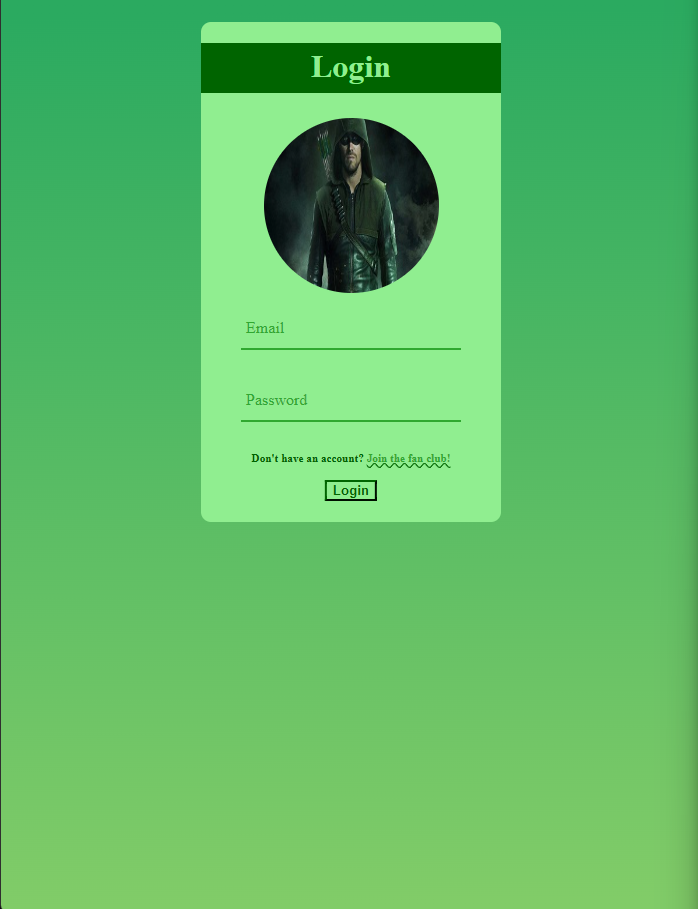
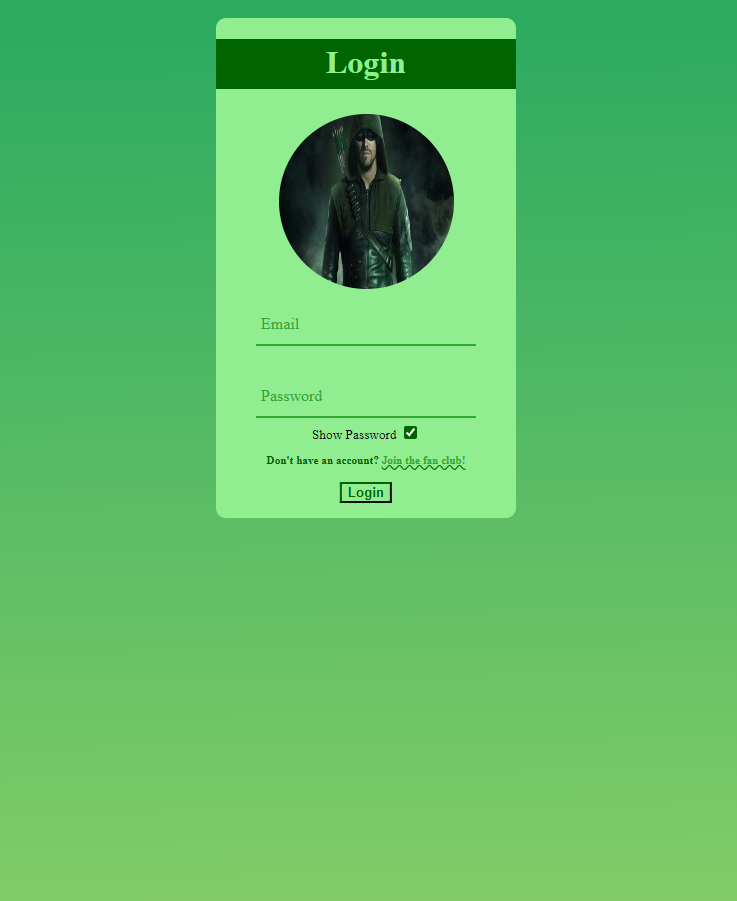
Implemented a show password option for login screen

diff --git a/Account_Manager/Public/CSS/login.css b/Account_Manager/Public/CSS/login.css
@@ -37,22 +37,6 @@ form {
     box-sizing: border-box;
 }
 
-p {
-    font-weight: bold;
-    font-size: .7em;
-    text-align: center;
-    color: darkgreen;
-}
-
-a {
-    color: rgb(48, 168, 48);
-    text-decoration: darkgreen wavy underline;
-}
-
-a:hover {
-    color: darkgreen;
-}
-
 /* form fields */
 .text_field input {
     width: 100%;
@@ -84,6 +68,37 @@ input:-webkit-autofill {
     -webkit-text-fill-color: darkgreen !important;
     -webkit-box-shadow: 0 0 0 30px lightgreen inset !important;
             box-shadow: 0 0 0 30px lightgreen inset !important;
+}
+
+/* form; after input fields */
+p {
+    font-weight: bold;
+    font-size: .7em;
+    text-align: center;
+    color: darkgreen;
+}
+
+a {
+    color: rgb(48, 168, 48);
+    text-decoration: darkgreen wavy underline;
+}
+
+a:hover {
+    color: darkgreen;
+}
+
+#after_inputs {
+    position: relative;
+    top: -25px;
+}
+
+#password_show {
+    text-align: center;
+    font-size: smaller;
+}
+
+[type="checkbox"] {
+    accent-color: darkgreen;
 }
 
 [type="submit"] {

diff --git a/Account_Manager/Public/HTML/login.html b/Account_Manager/Public/HTML/login.html
@@ -25,8 +25,14 @@
                     <span></span>
                     <label for="password">Password</label>
                 </div>
-                <p>Don't have an account? <a href="create_account.html">Join the fan club!</a></p>
-                <input type="submit" value="Login">
+                <div id="after_inputs">
+                    <div id="password_show">
+                        <label for="show_password">Show Password </label>
+                        <input type="checkbox" onclick="showPassword()">
+                    </div>
+                    <p>Don't have an account? <a href="create_account.html">Join the fan club!</a></p>
+                    <input type="submit" value="Login">
+                </div>
             </form>
         </div>
         <script src="../JavaScript/login.js"></script>

diff --git a/Account_Manager/Public/JavaScript/login.js b/Account_Manager/Public/JavaScript/login.js
@@ -1,3 +1,14 @@
 /* 
  * client side JavaScript for the login screen 
  */
+
+/* password show/hide toggle */
+function showPassword() {
+    const showPass = document.getElementById('password');    
+
+    if (showPass.type === "password") { /* if currently hidden */
+        showPass.type = "text";
+    } else { /* else currently shown */
+        showPass.type = "password";
+    }
+}
